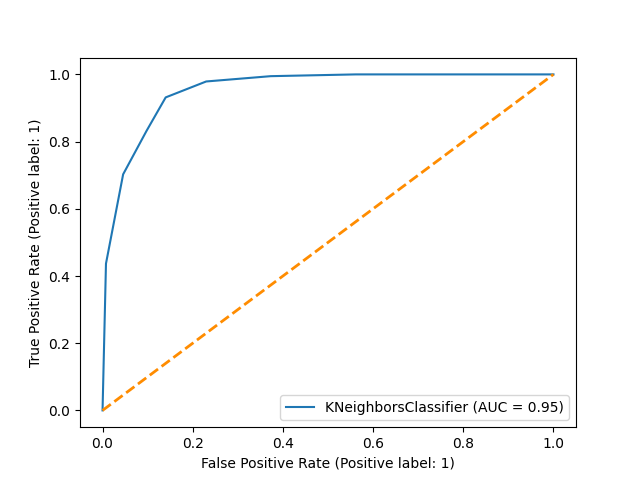
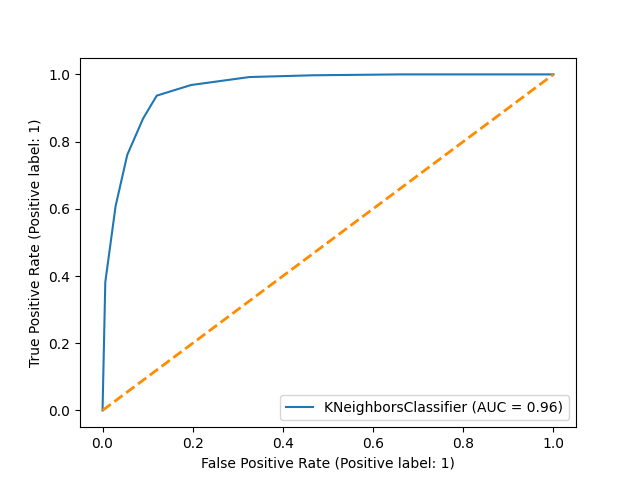
update notbooks

diff --git a/KNN.py b/KNN.py
@@ -215,7 +215,7 @@ def run_KNN(dataset_type):
     """
 
     x, y = dataset_handling.preprocessing_columns(dataset_type)
-    # initialise_save(x, y, dataset_type)
+    initialise_save(x, y, dataset_type)
     building_models(x, y, dataset_type)
     print_results(dataset_type)
     plot_graphs(dataset_type)

diff --git a/main.py b/main.py
@@ -2,4 +2,3 @@ from KNN import *
 from naive_bayes import *
 
 run_KNN("CRAP_ROS")
-run_naive_bayes()

diff --git a/notebooks/KNN_results_CRAP_ROS.md b/notebooks/KNN_results_CRAP_ROS.md
@@ -4,35 +4,35 @@
 
 ### The Highest Best
 
->#### neighbors: 7, test size: 0.3
->> - **Best		: 88.62102217936355**
+>#### neighbors: 9, test size: 0.4
+>> - **Best		: 90.06750241080039**
 
 	              precision    recall  f1-score   support
 	
-	           0       0.96      0.86      0.91       657
-	           1       0.79      0.93      0.86       380
+	           0       0.96      0.88      0.92       657
+	           1       0.82      0.94      0.87       380
 	
-	    accuracy                           0.89      1037
-	   macro avg       0.87      0.90      0.88      1037
-	weighted avg       0.90      0.89      0.89      1037
+	    accuracy                           0.90      1037
+	   macro avg       0.89      0.91      0.90      1037
+	weighted avg       0.91      0.90      0.90      1037
 	
 
 ## All Records
 Neighbors | Test Size | Accuracy 
 :---------: | :---------: | :--------: 
-3 | 0.1 | 84.37801350048217 
-3 | 0.2 | 84.18514946962391 
-3 | 0.3 | 85.53519768563163 
-3 | 0.4 | 83.79942140790743 
-5 | 0.1 | 84.5708775313404 
-5 | 0.2 | 85.92092574734812 
-5 | 0.3 | 86.59594985535198 
-5 | 0.4 | 85.14946962391514 
-7 | 0.1 | 86.6923818707811 
-7 | 0.2 | 87.0781099324976 
-7 | 0.3 | 88.62102217936355 
-7 | 0.4 | 87.65670202507232 
-9 | 0.1 | 87.94599807135968 
-9 | 0.2 | 88.33172613307619 
-9 | 0.3 | 88.33172613307619 
-9 | 0.4 | 88.62102217936355 
+3 | 0.1 | 87.36740597878494 
+3 | 0.2 | 87.36740597878494 
+3 | 0.3 | 87.84956605593057 
+3 | 0.4 | 87.94599807135968 
+5 | 0.1 | 89.19961427193829 
+5 | 0.2 | 88.71745419479267 
+5 | 0.3 | 89.19961427193829 
+5 | 0.4 | 89.19961427193829 
+7 | 0.1 | 89.48891031822566 
+7 | 0.2 | 89.39247830279653 
+7 | 0.3 | 89.77820636451301 
+7 | 0.4 | 89.48891031822566 
+9 | 0.1 | 89.97107039537127 
+9 | 0.2 | 89.87463837994214 
+9 | 0.3 | 89.77820636451301 
+9 | 0.4 | 90.06750241080039 
